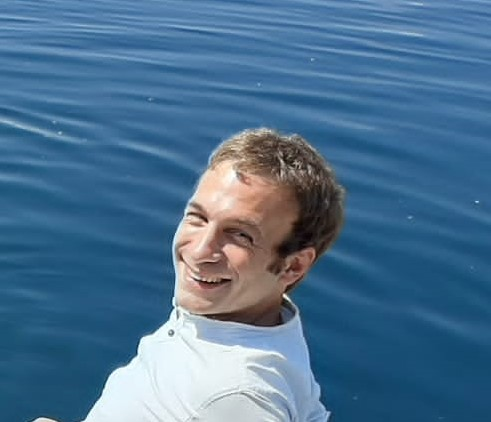
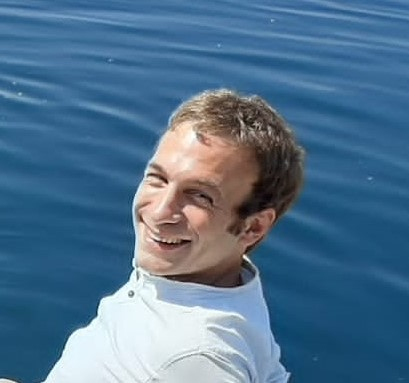
pict size

diff --git a/index.html b/index.html
@@ -5,6 +5,7 @@
 	Free for personal and commercial use under the CCA 3.0 license (html5up.net/license)
 -->
 <html>
+
 	<head>
 		<title>Emanuele Lucrezia by HTML5 UP</title>
 		<meta charset="utf-8" />
@@ -28,11 +29,16 @@
 						<li><a href="#one" class="button icon solid fa-chevron-down scrolly">Know More</a></li>
 					</ul>
 				</div>
-				<div class="image phone"><div class="inner"><img src="images/me.jpg" alt="" /></div></div>
+				<style>
+					img{
+						width: 350px;
+					}
+				</style>
+				<div class="image"><div class="inner"><img src="images/me.jpg" alt="" /></div></div>
 			</header>
 
 		<!-- One -->
-			<section id="one" class="wrapper style2 special">
+			<!--section id="one" class="wrapper style2 special">
 				<header class="major">
 					<h2>Sed ipsum magna lorem tempus amet<br />
 					vehicula et gravida elementum</h2>
@@ -42,7 +48,7 @@
 					<li><span class="icon solid fa-sync"><span class="label">Process</span></span></li>
 					<li><span class="icon solid fa-cloud"><span class="label">Upload</span></span></li>
 				</ul>
-			</section>
+			</section-->
 
 		<!-- Two -->
 			<section id="two" class="wrapper">
@@ -54,6 +60,16 @@
 							<p>Morbi mattis ornare ornare. Duis quam turpis, gravida at leo elementum elit fusce accumsan dui libero, quis vehicula lectus ultricies eu. In convallis amet leo non sapien iaculis efficitur consequat lorem ipsum.</p>
 						</div>
 					</section>
+			<section id="two" class="wrapper">
+					<div class="inner alt">
+						<section class="spotlight">
+							<div class="image"><img src="images/pic02.jpg" alt="" /></div>
+							<div class="content">
+								<h3>Magna sed ultrices</h3>
+								<p>Morbi mattis ornare ornare. Duis quam turpis, gravida at leo elementum elit fusce accumsan dui libero, quis vehicula lectus ultricies eu. In convallis amet leo non sapien iaculis efficitur consequat lorem ipsum.</p>
+							</div>
+						</section>
+			
 					<!--section class="spotlight">
 						<div class="image"><img src="images/pic02.jpg" alt="" /></div>
 						<div class="content">
